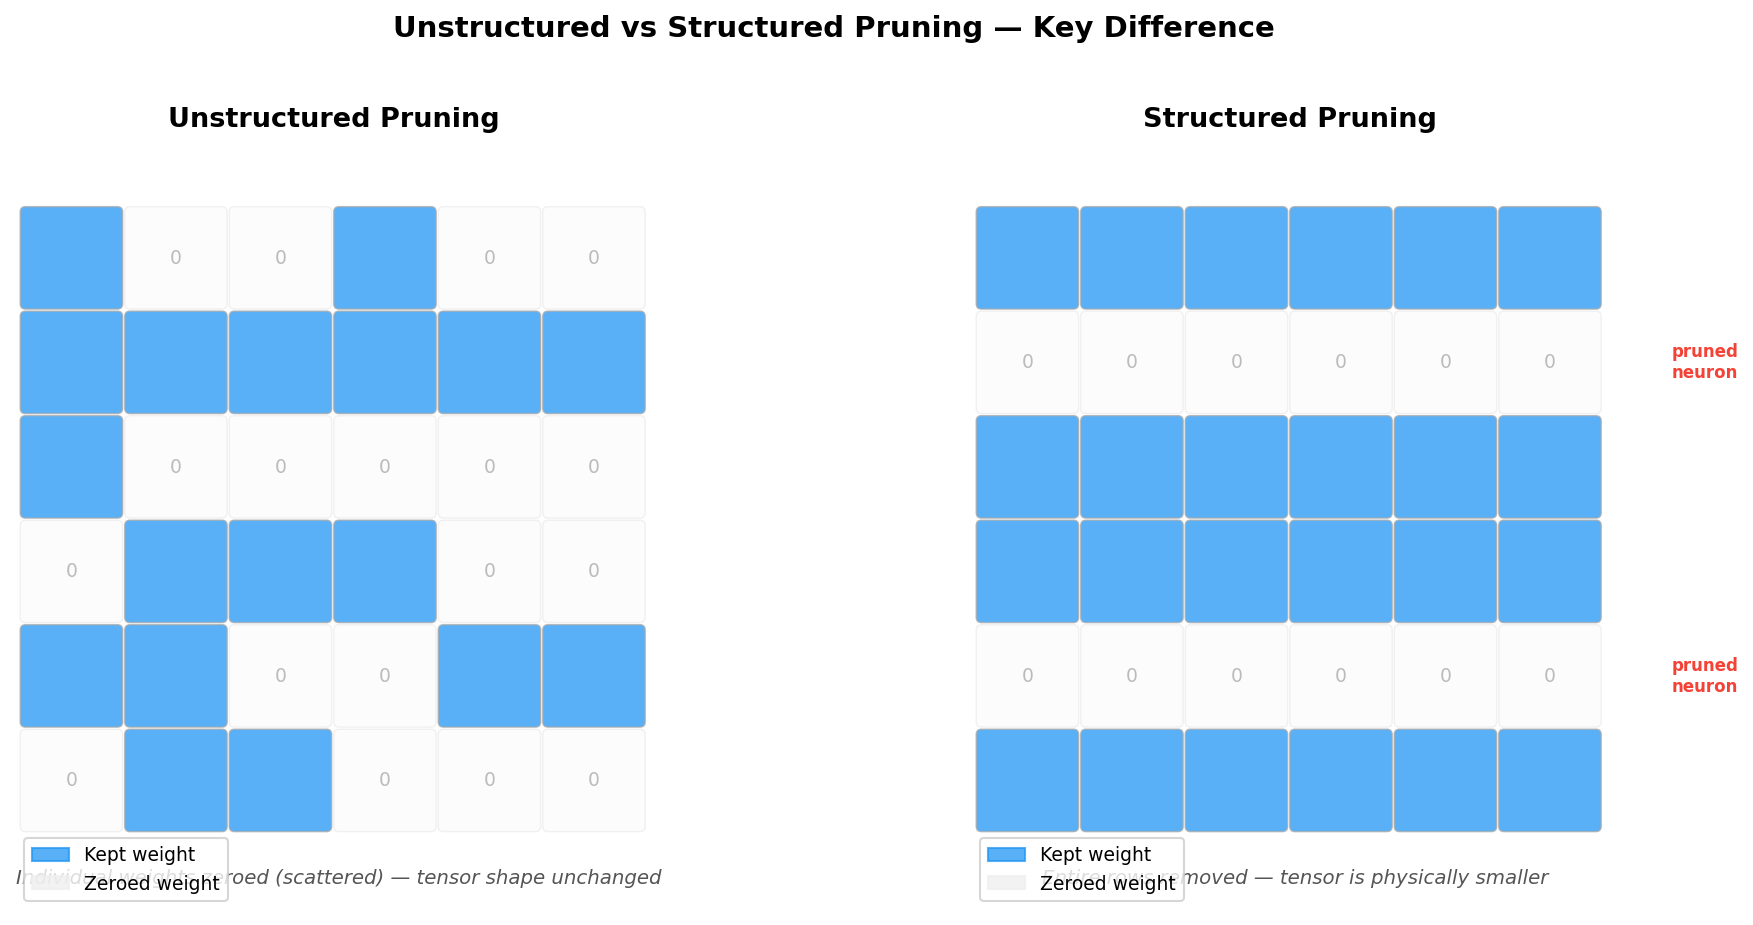
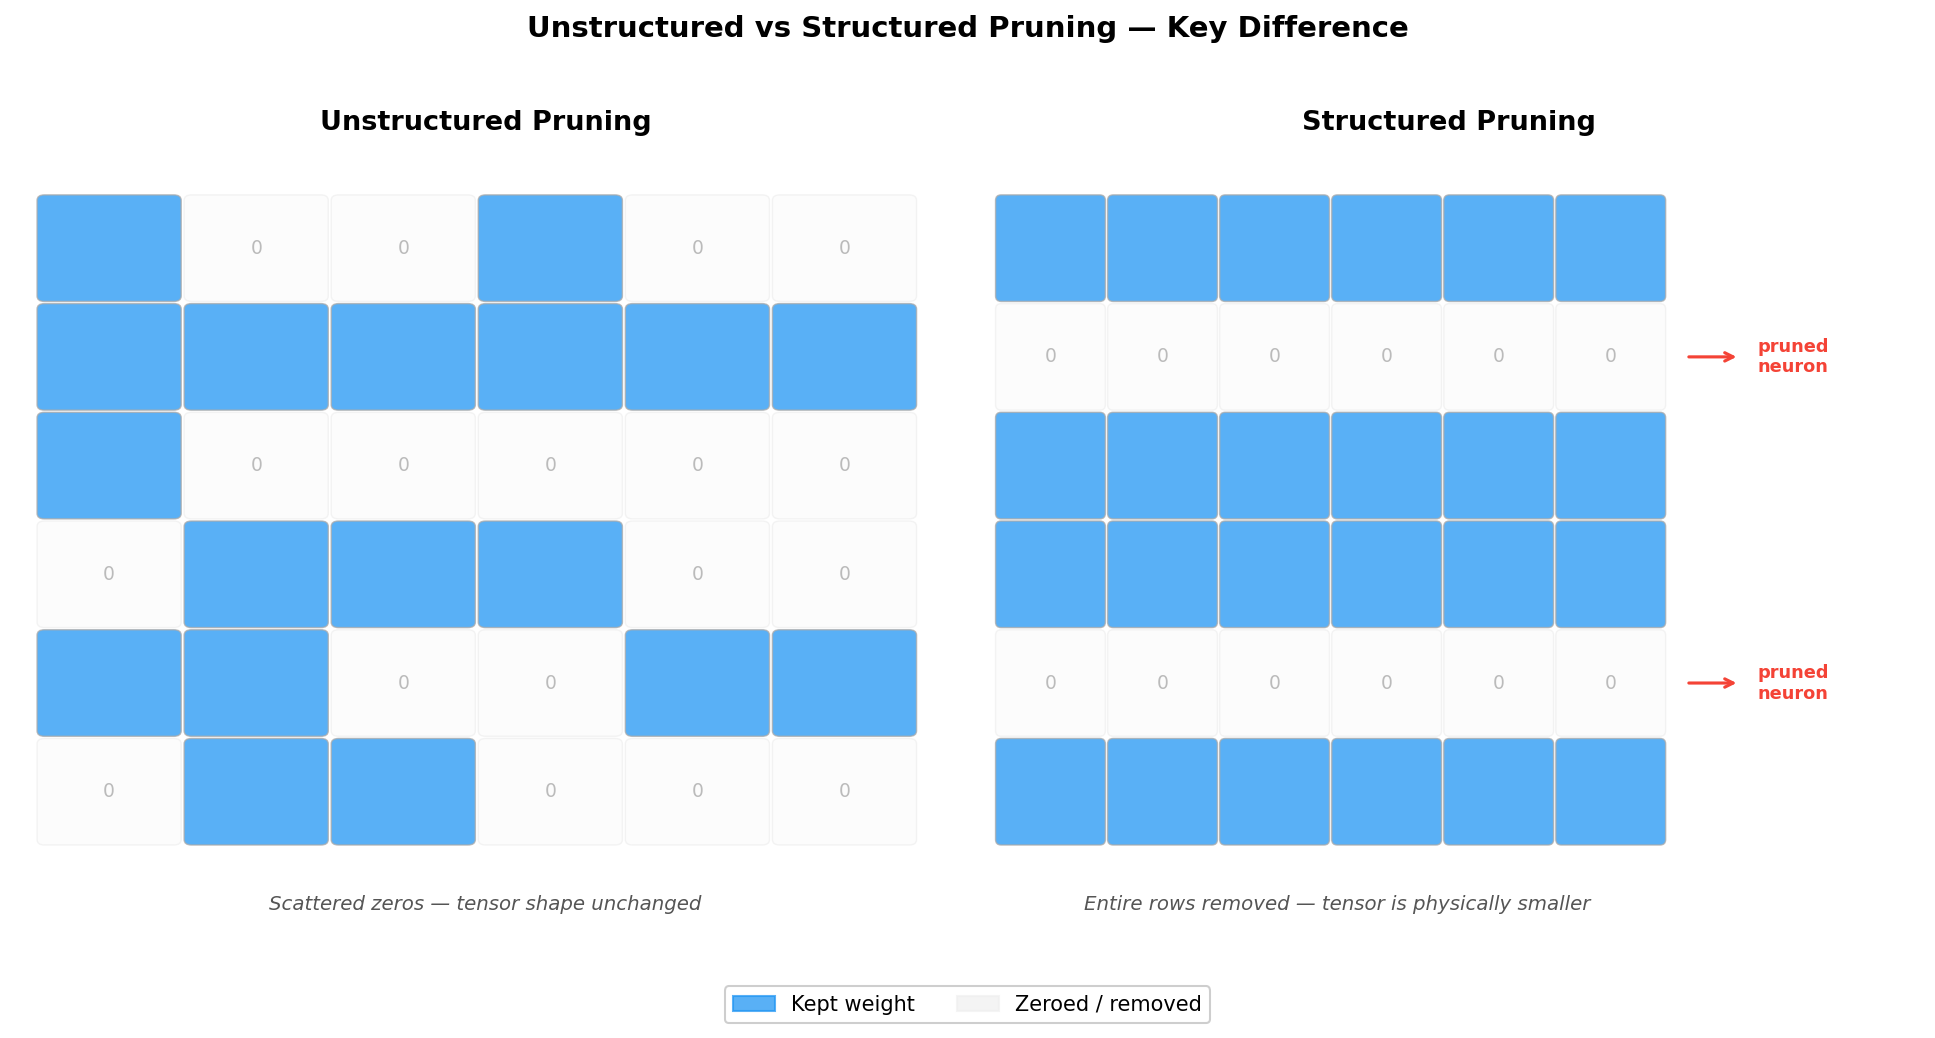
Fixed diagram.

diff --git a/diagrams.py b/diagrams.py
@@ -31,9 +31,10 @@ C_NORM    = "#FF9800"   # orange – activation norm bar
 # ═══════════════════════════════════════════════════════════════════════════
 
 def draw_unstructured():
-    fig = plt.figure(figsize=(16, 9))
+    fig = plt.figure(figsize=(16, 7))
     fig.patch.set_facecolor("white")
-    gs = gridspec.GridSpec(2, 4, figure=fig, hspace=0.55, wspace=0.45)
+    gs = gridspec.GridSpec(2, 4, figure=fig, hspace=0.08, wspace=0.45,
+                           height_ratios=[1.2, 1])
 
     rows, cols = 5, 6   # small weight matrix for illustration
 
@@ -174,186 +175,138 @@ def draw_unstructured():
 # ═══════════════════════════════════════════════════════════════════════════
 
 def draw_structured():
-    fig = plt.figure(figsize=(16, 10))
+    fig, axes = plt.subplots(1, 3, figsize=(17, 6))
     fig.patch.set_facecolor("white")
-    gs = gridspec.GridSpec(2, 3, figure=fig, hspace=0.55, wspace=0.4)
 
-    # ── Attention head pruning diagram ───────────────────────────────────────
-    def draw_head_pruning(ax):
-        n_heads = 8
-        head_scores = np.array([0.91, 0.43, 0.78, 0.22, 0.85, 0.31, 0.67, 0.15])
-        keep = head_scores >= np.sort(head_scores)[n_heads // 2]   # keep top 50 %
+    # ── Panel 1: Attention head pruning ──────────────────────────────────────
+    ax = axes[0]
+    n_heads = 8
+    head_scores = np.array([0.91, 0.43, 0.78, 0.22, 0.85, 0.31, 0.67, 0.15])
+    keep_heads = head_scores >= np.sort(head_scores)[n_heads // 2]
 
-        ax.set_xlim(-0.5, n_heads + 0.5)
-        ax.set_ylim(-0.5, 3.2)
-        ax.axis("off")
-        ax.set_title("Attention Head Pruning\n(score = L1 norm of out_proj columns)",
-                     fontsize=10, fontweight="bold", pad=8)
+    ax.set_xlim(-0.5, n_heads + 0.5)
+    ax.set_ylim(0.0, 3.6)
+    ax.axis("off")
+    ax.set_title("① Attention Head Pruning", fontsize=11, fontweight="bold", pad=10)
 
-        for h in range(n_heads):
-            color = C_HEAD_ON if keep[h] else C_HEAD_OFF
-            rect  = mpatches.FancyBboxPatch(
-                (h + 0.05, 1.4), 0.85, 0.9,
-                boxstyle="round,pad=0.06", linewidth=1.2,
-                edgecolor=color, facecolor=color, alpha=0.75
-            )
-            ax.add_patch(rect)
-            ax.text(h + 0.475, 1.85, f"H{h}", ha="center", va="center",
-                    fontsize=8, color="white", fontweight="bold")
-            ax.text(h + 0.475, 1.25, f"{head_scores[h]:.2f}",
-                    ha="center", va="center", fontsize=7.5, color="#555")
-            if not keep[h]:
-                ax.text(h + 0.475, 1.85, "✕", ha="center", va="center",
-                        fontsize=14, color="white", fontweight="bold", alpha=0.6)
+    for h in range(n_heads):
+        color = C_HEAD_ON if keep_heads[h] else C_HEAD_OFF
+        rect = mpatches.FancyBboxPatch(
+            (h + 0.05, 1.5), 0.85, 0.85,
+            boxstyle="round,pad=0.06", linewidth=1.2,
+            edgecolor=color, facecolor=color, alpha=0.8
+        )
+        ax.add_patch(rect)
+        ax.text(h + 0.475, 1.925, f"H{h}", ha="center", va="center",
+                fontsize=8, color="white", fontweight="bold")
+        ax.text(h + 0.475, 1.3, f"{head_scores[h]:.2f}",
+                ha="center", va="center", fontsize=7.5, color="#555")
+        if not keep_heads[h]:
+            ax.text(h + 0.475, 1.925, "✕", ha="center", va="center",
+                    fontsize=13, color="white", fontweight="bold")
 
-        ax.text(4, 2.65, "Score each head → keep top 50%", ha="center",
-                fontsize=9, style="italic", color="#555")
-        ax.text(4, 0.6, "Physically remove pruned head rows/cols\nfrom Q, K, V, out_proj matrices",
-                ha="center", fontsize=9, color="#333",
-                bbox=dict(boxstyle="round,pad=0.4", facecolor="#E8F5E9",
-                          edgecolor=C_HEAD_ON, linewidth=1.2))
+    ax.text(3.5, 3.2, "score = L1 norm of out_proj columns → keep top 50%",
+            ha="center", va="center", fontsize=8.5, style="italic", color="#444")
+    ax.text(3.5, 0.55, "Slice Q / K / V / out_proj → update num_heads & embed_dim",
+            ha="center", va="center", fontsize=8.5, color="#333",
+            bbox=dict(boxstyle="round,pad=0.35", facecolor="#E8F5E9",
+                      edgecolor=C_HEAD_ON, linewidth=1.2))
 
-        kept_patch   = mpatches.Patch(color=C_HEAD_ON, label="Kept head")
-        pruned_patch = mpatches.Patch(color=C_HEAD_OFF, label="Pruned head")
-        ax.legend(handles=[kept_patch, pruned_patch], loc="lower right",
-                  fontsize=8, framealpha=0.7)
+    ax.legend(handles=[mpatches.Patch(color=C_HEAD_ON, label="Kept"),
+                        mpatches.Patch(color=C_HEAD_OFF, label="Pruned")],
+              loc="lower left", fontsize=8, framealpha=0.8)
 
-    # ── MLP neuron pruning diagram ───────────────────────────────────────────
-    def draw_mlp_pruning(ax):
-        n_neurons  = 8
-        neuron_scores = np.array([0.82, 0.19, 0.65, 0.44, 0.91, 0.12, 0.77, 0.36])
-        keep = neuron_scores >= np.sort(neuron_scores)[n_neurons // 2]
+    # ── Panel 2: MLP neuron pruning ───────────────────────────────────────────
+    ax = axes[1]
+    n_neurons = 8
+    neuron_scores = np.array([0.82, 0.19, 0.65, 0.44, 0.91, 0.12, 0.77, 0.36])
+    keep_neurons = neuron_scores >= np.sort(neuron_scores)[n_neurons // 2]
+    kept_idx = [n for n in range(n_neurons) if keep_neurons[n]]
 
-        ax.set_xlim(-0.3, 4.5)
-        ax.set_ylim(-0.5, n_neurons + 0.2)
-        ax.axis("off")
-        ax.set_title("MLP Neuron Pruning\n(score = L1 norm of fc1 output rows)",
-                     fontsize=10, fontweight="bold", pad=8)
+    ax.set_xlim(-0.2, 5.0)
+    ax.set_ylim(-0.3, n_neurons + 0.3)
+    ax.axis("off")
+    ax.set_title("② MLP Neuron Pruning", fontsize=11, fontweight="bold", pad=10)
 
-        # fc1 neurons (left column)
-        for n in range(n_neurons):
-            color = C_MLP_ON if keep[n] else C_MLP_OFF
-            rect  = mpatches.FancyBboxPatch(
-                (0.05, n + 0.08), 0.9, 0.78,
-                boxstyle="round,pad=0.05", linewidth=1.1,
-                edgecolor=color, facecolor=color, alpha=0.7
-            )
-            ax.add_patch(rect)
-            label = f"N{n}\n{neuron_scores[n]:.2f}"
-            ax.text(0.5, n + 0.47, label, ha="center", va="center",
-                    fontsize=7, color="white", fontweight="bold")
-            if not keep[n]:
-                ax.text(0.5, n + 0.47, "✕", ha="center", va="center",
-                        fontsize=14, color="white", alpha=0.55, fontweight="bold")
+    for n in range(n_neurons):
+        color = C_MLP_ON if keep_neurons[n] else C_MLP_OFF
+        rect = mpatches.FancyBboxPatch(
+            (0.05, n + 0.1), 0.85, 0.72,
+            boxstyle="round,pad=0.05", linewidth=1.1,
+            edgecolor=color, facecolor=color, alpha=0.75
+        )
+        ax.add_patch(rect)
+        ax.text(0.475, n + 0.47, f"N{n}  {neuron_scores[n]:.2f}",
+                ha="center", va="center", fontsize=7, color="white", fontweight="bold")
+        if not keep_neurons[n]:
+            ax.text(0.9, n + 0.47, "✕", ha="left", va="center",
+                    fontsize=11, color=C_MLP_OFF, fontweight="bold")
 
-        ax.text(0.5, -0.35, "fc1 neurons", ha="center", fontsize=8,
-                color="#555", style="italic")
+    ax.text(0.475, -0.22, "fc1 neurons\n(before)", ha="center", va="top",
+            fontsize=8, color="#555", style="italic")
 
-        # arrow
-        ax.annotate("", xy=(2.15, n_neurons / 2), xytext=(1.1, n_neurons / 2),
-                    arrowprops=dict(arrowstyle="-|>", color=C_ARROW, lw=1.5))
-        ax.text(1.6, n_neurons / 2 + 0.35, "remove rows\n& columns",
-                ha="center", fontsize=8, color="#555", style="italic")
+    ax.annotate("", xy=(2.3, n_neurons / 2), xytext=(1.05, n_neurons / 2),
+                arrowprops=dict(arrowstyle="-|>", color=C_ARROW, lw=1.8))
+    ax.text(1.65, n_neurons / 2 + 0.5, "remove\nrows & cols",
+            ha="center", fontsize=8, color="#555", style="italic")
 
-        # kept neurons only (right column)
-        kept_idx = [n for n in range(n_neurons) if keep[n]]
-        for i, n in enumerate(kept_idx):
-            rect = mpatches.FancyBboxPatch(
-                (2.2, i * (n_neurons / len(kept_idx)) + 0.15), 0.9, 0.65,
-                boxstyle="round,pad=0.05", linewidth=1.1,
-                edgecolor=C_MLP_ON, facecolor=C_MLP_ON, alpha=0.7
-            )
-            ax.add_patch(rect)
-            ax.text(2.65, i * (n_neurons / len(kept_idx)) + 0.47,
-                    f"N{n}", ha="center", va="center",
-                    fontsize=7.5, color="white", fontweight="bold")
+    spacing = n_neurons / len(kept_idx)
+    for i, n in enumerate(kept_idx):
+        rect = mpatches.FancyBboxPatch(
+            (2.4, i * spacing + 0.15), 0.85, 0.62,
+            boxstyle="round,pad=0.05", linewidth=1.1,
+            edgecolor=C_MLP_ON, facecolor=C_MLP_ON, alpha=0.75
+        )
+        ax.add_patch(rect)
+        ax.text(2.825, i * spacing + 0.47, f"N{n}",
+                ha="center", va="center", fontsize=8, color="white", fontweight="bold")
 
-        ax.text(2.65, -0.35, "smaller fc1/fc2", ha="center", fontsize=8,
-                color="#555", style="italic")
+    ax.text(2.825, -0.22, "fc1/fc2\n(after, smaller)", ha="center", va="top",
+            fontsize=8, color="#555", style="italic")
 
-    # ── Matrix reshape diagram ───────────────────────────────────────────────
-    def draw_reshape(ax):
-        ax.axis("off")
-        ax.set_xlim(0, 10)
-        ax.set_ylim(0, 6)
-        ax.set_title("Physical Weight Matrix Reshape", fontsize=10,
-                     fontweight="bold", pad=8)
+    ax.text(1.5, n_neurons + 0.15, "score = L1 norm of fc1 rows",
+            ha="center", va="bottom", fontsize=8.5, style="italic", color="#444")
 
-        def draw_mat(x, y, w, h, color, label, sublabel=""):
-            rect = mpatches.FancyBboxPatch(
-                (x, y), w, h, boxstyle="round,pad=0.1", linewidth=1.5,
-                edgecolor=color, facecolor=color, alpha=0.25
-            )
-            ax.add_patch(rect)
-            ax.text(x + w / 2, y + h / 2, label, ha="center", va="center",
-                    fontsize=9, fontweight="bold", color=color)
-            if sublabel:
-                ax.text(x + w / 2, y - 0.35, sublabel, ha="center",
-                        va="top", fontsize=7.5, color="#666", style="italic")
+    # ── Panel 3: Matrix reshape ───────────────────────────────────────────────
+    ax = axes[2]
+    ax.axis("off")
+    ax.set_xlim(0, 10)
+    ax.set_ylim(-0.3, 7.8)
+    ax.set_title("③ Physical Weight Reshape", fontsize=11, fontweight="bold", pad=10)
 
-        # Before
-        ax.text(2.5, 5.6, "Before pruning", ha="center", fontsize=9,
-                fontweight="bold", color="#333")
-        draw_mat(0.3, 2.8, 4.2, 2.4, C_KEPT,
-                 "q_proj\n[H × H]", "[2048 × 2048]")
-        draw_mat(0.3, 0.2, 4.2, 2.2, "#9C27B0",
-                 "out_proj\n[H × H]", "[2048 × 2048]")
+    def draw_mat(x, y, w, h, color, label, sublabel=""):
+        ax.add_patch(mpatches.FancyBboxPatch(
+            (x, y), w, h, boxstyle="round,pad=0.1", linewidth=1.5,
+            edgecolor=color, facecolor=color, alpha=0.2
+        ))
+        ax.text(x + w / 2, y + h / 2, label, ha="center", va="center",
+                fontsize=8.5, fontweight="bold", color=color)
+        if sublabel:
+            ax.text(x + w / 2, y - 0.12, sublabel, ha="center", va="top",
+                    fontsize=7.5, color="#666", style="italic")
 
-        ax.annotate("", xy=(6.0, 3.0), xytext=(4.7, 3.0),
-                    arrowprops=dict(arrowstyle="-|>", color=C_ARROW, lw=2))
-        ax.text(5.35, 3.4, "prune\n40% heads", ha="center", fontsize=8,
-                color="#555", style="italic")
+    ax.text(2.5, 7.5, "Before", ha="center", fontsize=9, fontweight="bold", color="#333")
+    draw_mat(0.3, 4.5, 4.0, 2.5, C_KEPT, "q_proj\n[H × H]", "[2048 × 2048]")
+    draw_mat(0.3, 1.5, 4.0, 2.5, "#9C27B0", "out_proj\n[H × H]", "[2048 × 2048]")
 
-        # After
-        ax.text(8.0, 5.6, "After pruning", ha="center", fontsize=9,
-                fontweight="bold", color="#333")
-        draw_mat(6.3, 2.8, 2.5, 2.4, C_KEPT,
-                 "q_proj\n[H′ × H]", "[1229 × 2048]")
-        draw_mat(6.3, 0.2, 2.5, 2.2, "#9C27B0",
-                 "out_proj\n[H × H′]", "[2048 × 1229]")
+    ax.annotate("", xy=(6.1, 3.8), xytext=(4.5, 3.8),
+                arrowprops=dict(arrowstyle="-|>", color=C_ARROW, lw=2))
+    ax.text(5.3, 4.3, "prune\n40% heads", ha="center", fontsize=8,
+            color="#555", style="italic")
 
-        ax.text(5.0, 0.0,
-                "Smaller tensors → smaller matmuls → real memory & potential latency savings",
-                ha="center", fontsize=8.5, color="#333",
-                bbox=dict(boxstyle="round,pad=0.4", facecolor="#FFF8E1",
-                          edgecolor="#FF9800", linewidth=1.2))
+    ax.text(7.8, 7.5, "After", ha="center", fontsize=9, fontweight="bold", color="#333")
+    draw_mat(6.3, 4.5, 2.4, 2.5, C_KEPT, "q_proj\n[H′ × H]", "[1229 × 2048]")
+    draw_mat(6.3, 1.5, 2.4, 2.5, "#9C27B0", "out_proj\n[H × H′]", "[2048 × 1229]")
 
-    # ── lay out subplots ─────────────────────────────────────────────────────
-    ax_head    = fig.add_subplot(gs[0, 0])
-    ax_mlp     = fig.add_subplot(gs[0, 1])
-    ax_reshape = fig.add_subplot(gs[0, 2])
-    draw_head_pruning(ax_head)
-    draw_mlp_pruning(ax_mlp)
-    draw_reshape(ax_reshape)
+    ax.text(5.0, 0.7,
+            "Smaller tensors → real memory savings\n& potential latency improvement",
+            ha="center", va="center", fontsize=8.5, color="#333",
+            bbox=dict(boxstyle="round,pad=0.4", facecolor="#FFF8E1",
+                      edgecolor="#FF9800", linewidth=1.2))
 
-    # ── formula / summary box ────────────────────────────────────────────────
-    ax_sum = fig.add_subplot(gs[1, :])
-    ax_sum.axis("off")
-
-    summary = (
-        "Attention heads:   "
-        r"$\mathrm{score}_h = \sum_{i,d} |W_{\mathrm{out}}[i,\; h \cdot d_h : (h+1) \cdot d_h]|$"
-        "     → remove lowest-scoring heads,  slice Q / K / V / out_proj,  update num_heads & embed_dim"
-        "\n\n"
-        "MLP neurons:   "
-        r"$\mathrm{score}_n = \sum_{j} |W_{\mathrm{fc1}}[n, j]|$"
-        "     → remove lowest-scoring neurons,  slice fc1 rows & fc2 columns"
-        "\n\n"
-        "Both operations physically shrink tensors  →  real parameter reduction & memory savings\n"
-        "Quality collapses without fine-tuning;  latency improvement is non-monotonic (hardware tile alignment)"
-    )
-
-    ax_sum.text(0.5, 0.62, "Structured Pruning — Head + MLP Neuron Removal",
-                transform=ax_sum.transAxes, ha="center", va="center",
-                fontsize=13, fontweight="bold", color="#333333")
-    ax_sum.text(0.5, 0.2, summary, transform=ax_sum.transAxes,
-                ha="center", va="center", fontsize=9.5,
-                bbox=dict(boxstyle="round,pad=0.7", facecolor="#FFF3E0",
-                          edgecolor="#F44336", linewidth=1.5),
-                linespacing=2.0)
-
-    fig.suptitle("Structured Pruning — Head + MLP Neuron Removal",
-                 fontsize=15, fontweight="bold", y=0.98)
+    fig.suptitle("Structured Pruning — Head + MLP Neuron Removal", fontsize=14,
+                 fontweight="bold")
+    fig.tight_layout(rect=[0, 0, 1, 0.96])
     path = FIG_DIR / "diagram_structured.png"
     fig.savefig(path, dpi=150, bbox_inches="tight")
     print(f"  Saved {path}")
@@ -365,7 +318,7 @@ def draw_structured():
 # ═══════════════════════════════════════════════════════════════════════════
 
 def draw_comparison():
-    fig, axes = plt.subplots(1, 2, figsize=(14, 6))
+    fig, axes = plt.subplots(1, 2, figsize=(13, 7))
     fig.patch.set_facecolor("white")
 
     rows, cols = 6, 6
@@ -374,7 +327,7 @@ def draw_comparison():
         for r in range(rows):
             for c in range(cols):
                 color = C_ZERO if not mask[r, c] else C_KEPT
-                alpha = 0.15 if not mask[r, c] else 0.75
+                alpha = 0.12 if not mask[r, c] else 0.75
                 rect  = mpatches.FancyBboxPatch(
                     (c, rows - r - 1), 0.88, 0.88,
                     boxstyle="round,pad=0.05", linewidth=0.7,
@@ -383,50 +336,48 @@ def draw_comparison():
                 ax.add_patch(rect)
                 if not mask[r, c]:
                     ax.text(c + 0.44, rows - r - 0.56, "0",
-                            ha="center", va="center", fontsize=9,
-                            color="#bbbbbb")
-        ax.set_xlim(-0.1, cols)
-        ax.set_ylim(-0.8, rows + 0.5)
-        ax.set_aspect("equal")
+                            ha="center", va="center", fontsize=9, color="#bbbbbb")
+        ax.set_xlim(-0.2, cols + 0.2)
+        ax.set_ylim(-0.9, rows + 0.3)
         ax.axis("off")
-        ax.set_title(title, fontsize=13, fontweight="bold", pad=10)
-        ax.text(cols / 2, -0.55, subtitle, ha="center", fontsize=9.5,
+        ax.set_title(title, fontsize=13, fontweight="bold", pad=12)
+        ax.text(cols / 2, -0.65, subtitle, ha="center", fontsize=9.5,
                 color="#555", style="italic")
 
-    # unstructured: scattered zeros
     np.random.seed(3)
     mask_unstruct = np.ones((rows, cols), dtype=bool)
     zero_idx = np.random.choice(rows * cols, size=int(rows * cols * 0.5), replace=False)
     mask_unstruct.flat[zero_idx] = False
 
-    # structured: remove 2 full rows (neurons)
     mask_struct = np.ones((rows, cols), dtype=bool)
-    mask_struct[[1, 4], :] = False   # prune rows 1 and 4
+    mask_struct[[1, 4], :] = False
 
     draw_grid(axes[0], mask_unstruct,
               "Unstructured Pruning",
-              "Individual weights zeroed (scattered) — tensor shape unchanged")
+              "Scattered zeros — tensor shape unchanged")
     draw_grid(axes[1], mask_struct,
               "Structured Pruning",
               "Entire rows removed — tensor is physically smaller")
 
-    # annotate column bracket for structured
+    # pruned-row annotations: placed outside the grid on the right side
     ax = axes[1]
-    for r_pruned, label in [(1, "pruned\nneuron"), (4, "pruned\nneuron")]:
+    ax.set_xlim(-0.2, cols + 2.2)   # widen right margin for annotations
+    for r_pruned in [1, 4]:
         y = rows - r_pruned - 0.56
-        ax.annotate("", xy=(cols + 0.05, y), xytext=(cols + 0.5, y),
+        ax.annotate("", xy=(cols + 0.1, y), xytext=(cols + 0.6, y),
                     arrowprops=dict(arrowstyle="<-", color=C_PRUNED, lw=1.5))
-        ax.text(cols + 0.6, y, label, va="center", fontsize=8,
+        ax.text(cols + 0.75, y, "pruned\nneuron", va="center", fontsize=8.5,
                 color=C_PRUNED, fontweight="bold")
 
-    kept_p  = mpatches.Patch(color=C_KEPT,  alpha=0.75, label="Kept weight")
-    zero_p  = mpatches.Patch(color=C_ZERO,  alpha=0.75, label="Zeroed weight")
-    for ax in axes:
-        ax.legend(handles=[kept_p, zero_p], loc="lower left", fontsize=9)
+    kept_p = mpatches.Patch(color=C_KEPT,  alpha=0.75, label="Kept weight")
+    zero_p = mpatches.Patch(color=C_ZERO,  alpha=0.6,  label="Zeroed / removed")
 
     fig.suptitle("Unstructured vs Structured Pruning — Key Difference",
-                 fontsize=14, fontweight="bold", y=1.02)
-    fig.tight_layout()
+                 fontsize=14, fontweight="bold")
+    fig.tight_layout(rect=[0, 0.08, 1, 0.96])
+    fig.legend(handles=[kept_p, zero_p], fontsize=10, ncol=2,
+               loc="lower center", bbox_to_anchor=(0.5, 0.01),
+               framealpha=0.95, edgecolor="#ccc")
     path = FIG_DIR / "diagram_comparison.png"
     fig.savefig(path, dpi=150, bbox_inches="tight")
     print(f"  Saved {path}")
